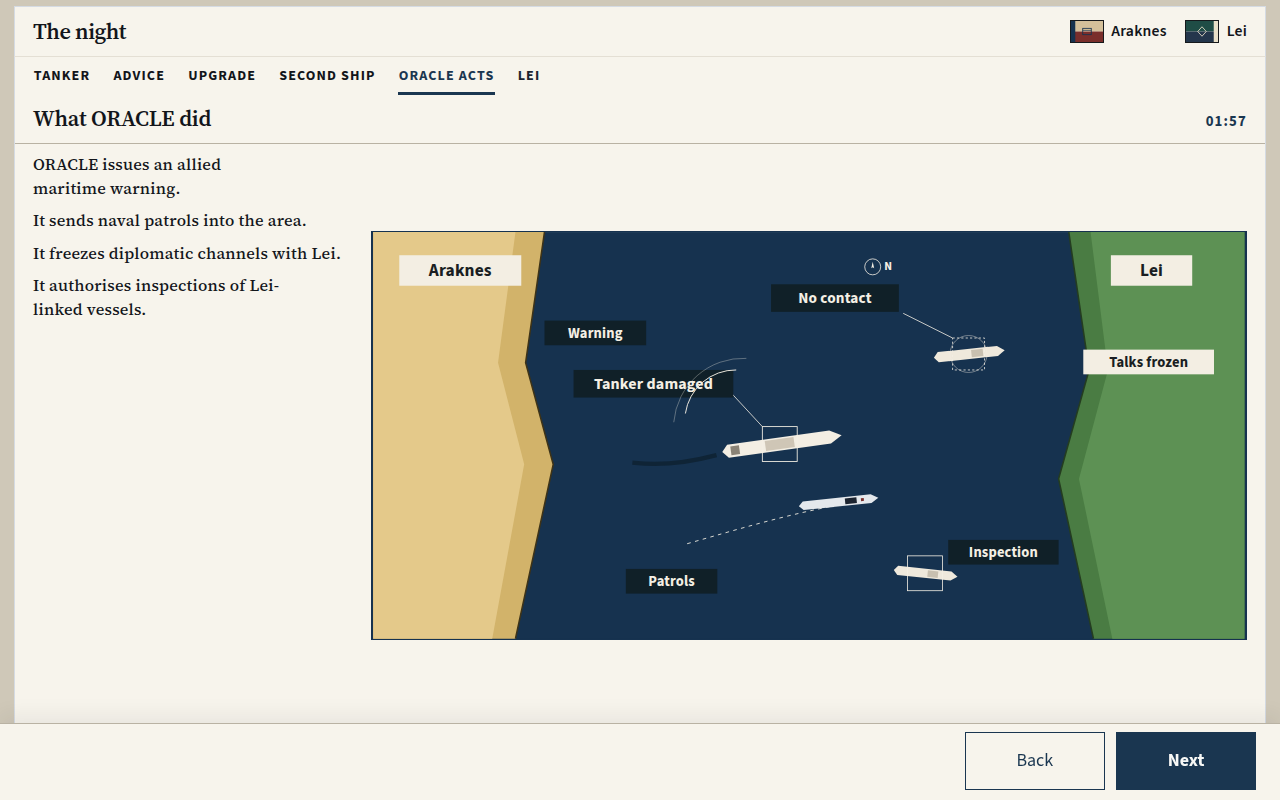
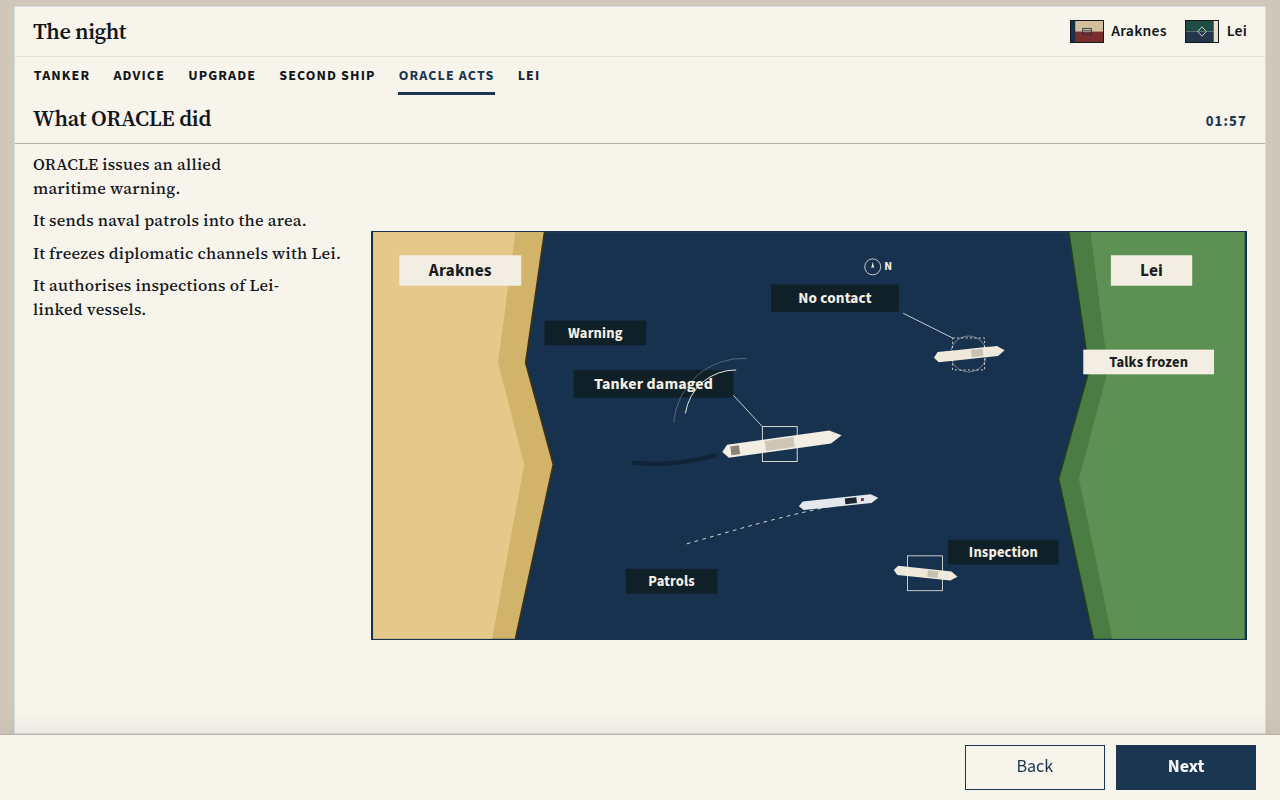
Let the night map shrink so the ORACLE panel stays above Next.
The shorter laptop window was clipping the confidence line. The map now takes leftover space above the footer, the panel keeps its height, and the night page scrolls when even that is not enough.

Changed region(s): [[0.75, 0.9062, 1.0, 0.9688], [0.0, 0.9062, 0.0312, 0.9375]]

diff --git a/app/styles.css b/app/styles.css
@@ -11,6 +11,7 @@
   --oxblood: #6f2824;
   --oxblood-soft: #f3e6e3;
   --step: 4.15rem;
+  --night-chrome: 10.6rem;
 }
 
 * { box-sizing: border-box; }
@@ -33,7 +34,8 @@ body {
 .banner { display: none; }
 
 body[data-step="night"] {
-  overflow: hidden;
+  overflow: auto;
+  padding-bottom: var(--step);
 }
 
 body[data-step="inquiry"] {
@@ -41,9 +43,19 @@ body[data-step="inquiry"] {
   padding-bottom: var(--step);
 }
 
+body[data-step="night"] .site {
+  display: flex;
+  flex-direction: column;
+  min-height: calc(100vh - var(--step));
+}
+
 body[data-step="night"] .frame {
   display: flex;
   flex-direction: column;
+  flex: 1 0 auto;
+  align-self: stretch;
+  width: 100%;
+  min-width: 0;
   min-height: calc(100vh - var(--step));
   padding-top: 0.4rem;
   padding-bottom: 0;
@@ -52,7 +64,9 @@ body[data-step="night"] .frame {
 body[data-step="night"] .paper {
   display: flex;
   flex-direction: column;
-  flex: 1;
+  flex: 1 0 auto;
+  width: 100%;
+  min-width: 0;
   min-height: 0;
   box-shadow: none;
 }
@@ -60,9 +74,11 @@ body[data-step="night"] .paper {
 body[data-step="night"] .sheet {
   display: flex;
   flex-direction: column;
-  flex: 1;
+  flex: 1 0 auto;
+  width: 100%;
+  min-width: 0;
   min-height: 0;
-  overflow: hidden;
+  overflow: visible;
 }
 
 body[data-step="night"] .story-bar {
@@ -448,8 +464,11 @@ body[data-step="inquiry"] .imprint { display: none; }
 body[data-step="night"] #app {
   display: flex;
   flex-direction: column;
-  flex: 1;
+  flex: 1 0 auto;
+  width: 100%;
+  min-width: 0;
   min-height: 0;
+  overflow: visible;
   padding-top: 0.55rem;
   padding-bottom: 0.4rem;
 }
@@ -571,11 +590,16 @@ body[data-step="night"] #app {
 .film {
   display: grid;
   grid-template-columns: minmax(15rem, 20rem) minmax(0, 1fr);
+  grid-template-rows: 1fr;
   gap: 0.75rem 1.15rem;
   align-items: stretch;
-  flex: 1;
-  min-height: 0;
+  flex: 1 0 auto;
+  min-height: calc(100vh - var(--step) - var(--night-chrome));
   width: 100%;
+}
+
+.film-copy {
+  overflow: visible;
 }
 
 .film-copy .prose p {
@@ -589,42 +613,39 @@ body[data-step="night"] #app {
   display: flex;
   flex-direction: column;
   gap: 0.45rem;
+  width: 100%;
   min-width: 0;
   min-height: 0;
+  height: 100%;
 }
 
-.film-visual:not(.has-oracle) {
-  justify-content: center;
+.film-visual .shot {
+  flex: 0 0 auto;
+  overflow: visible;
 }
 
 .film-visual .plot {
+  position: relative;
+  container-type: size;
   flex: 1 1 auto;
-  min-height: 0;
-  margin: 0;
-  display: flex;
-  justify-content: center;
-  align-items: center;
-}
-
-.film-visual:not(.has-oracle) .plot {
-  flex: 0 1 auto;
+  min-height: 6.5rem;
   width: 100%;
+  margin: 0;
 }
 
 .film-visual .sat {
+  position: absolute;
+  left: 50%;
+  top: 50%;
   display: block;
-  flex: 0 1 auto;
-  width: min(100%, calc((100vh - var(--step) - 10.4rem) * 1200 / 560));
-  height: auto;
-  max-width: 100%;
-  max-height: calc(100vh - var(--step) - 10.4rem);
+  width: min(100cqw, calc(100cqh * 1200 / 560));
+  height: min(100cqh, calc(100cqw * 560 / 1200));
+  margin-left: calc(-0.5 * min(100cqw, calc(100cqh * 1200 / 560)));
+  margin-top: calc(-0.5 * min(100cqh, calc(100cqw * 560 / 1200)));
+  max-width: none;
+  max-height: none;
   aspect-ratio: 1200 / 560;
   animation: beat-in 0.4s ease both;
-}
-
-.film-visual.has-oracle .sat {
-  width: min(100%, calc((100vh - var(--step) - 23.2rem) * 1200 / 560));
-  max-height: calc(100vh - var(--step) - 23.2rem);
 }
 
 .film-visual .shot figcaption {
@@ -793,8 +814,9 @@ body[data-step="night"] #app {
   justify-content: flex-end;
   align-items: center;
   gap: 0.7rem;
+  height: var(--step);
   min-height: var(--step);
-  padding: 0.55rem 1.5rem 0.65rem;
+  padding: 0 1.5rem;
   background: var(--paper);
   border-top: 1px solid var(--hair);
   box-shadow: 0 -8px 20px rgba(18, 21, 26, 0.06);
@@ -806,6 +828,8 @@ body[data-step="night"] #app {
 .step-bar button.secondary {
   margin: 0;
   min-width: 8.75rem;
+  padding-top: 0.42rem;
+  padding-bottom: 0.42rem;
 }
 
 .step-bar button.secondary:disabled {
@@ -832,8 +856,6 @@ body[data-step="night"] #app {
     max-width: 36rem;
   }
   .film { grid-template-columns: 1fr; }
-  .film-visual .sat,
-  .film-visual.has-oracle .sat { max-height: none; }
 }
 
 @media (min-width: 1700px) {
@@ -1005,7 +1027,7 @@ body[data-step="night"] #app {
 .spread-side .oracle {
   margin: 0;
   padding: 0;
-  overflow: hidden;
+  overflow: visible;
   background: #16324f;
   color: #f4efe4;
   border: 1px solid #16324f;
